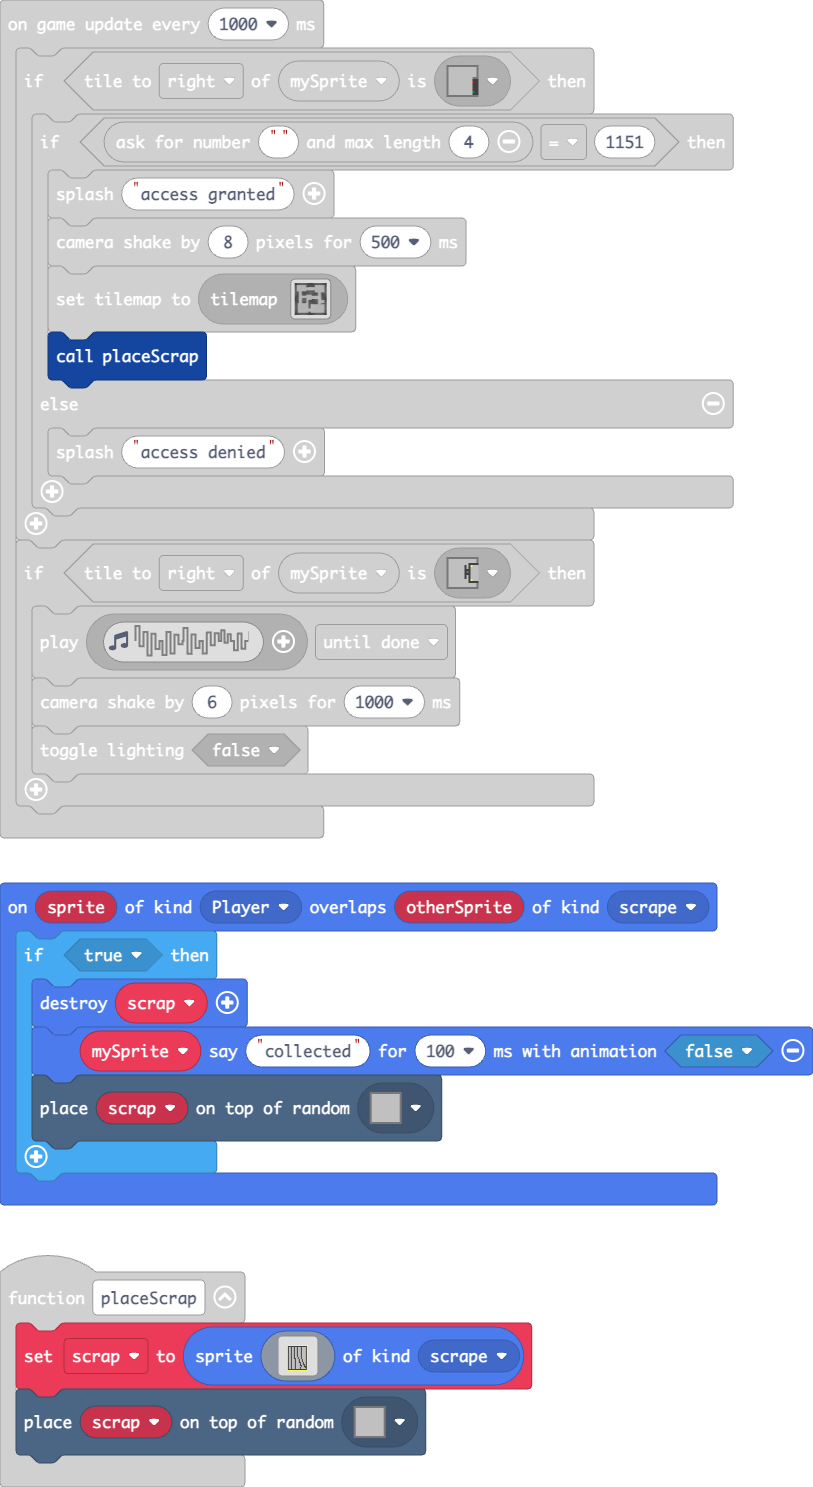
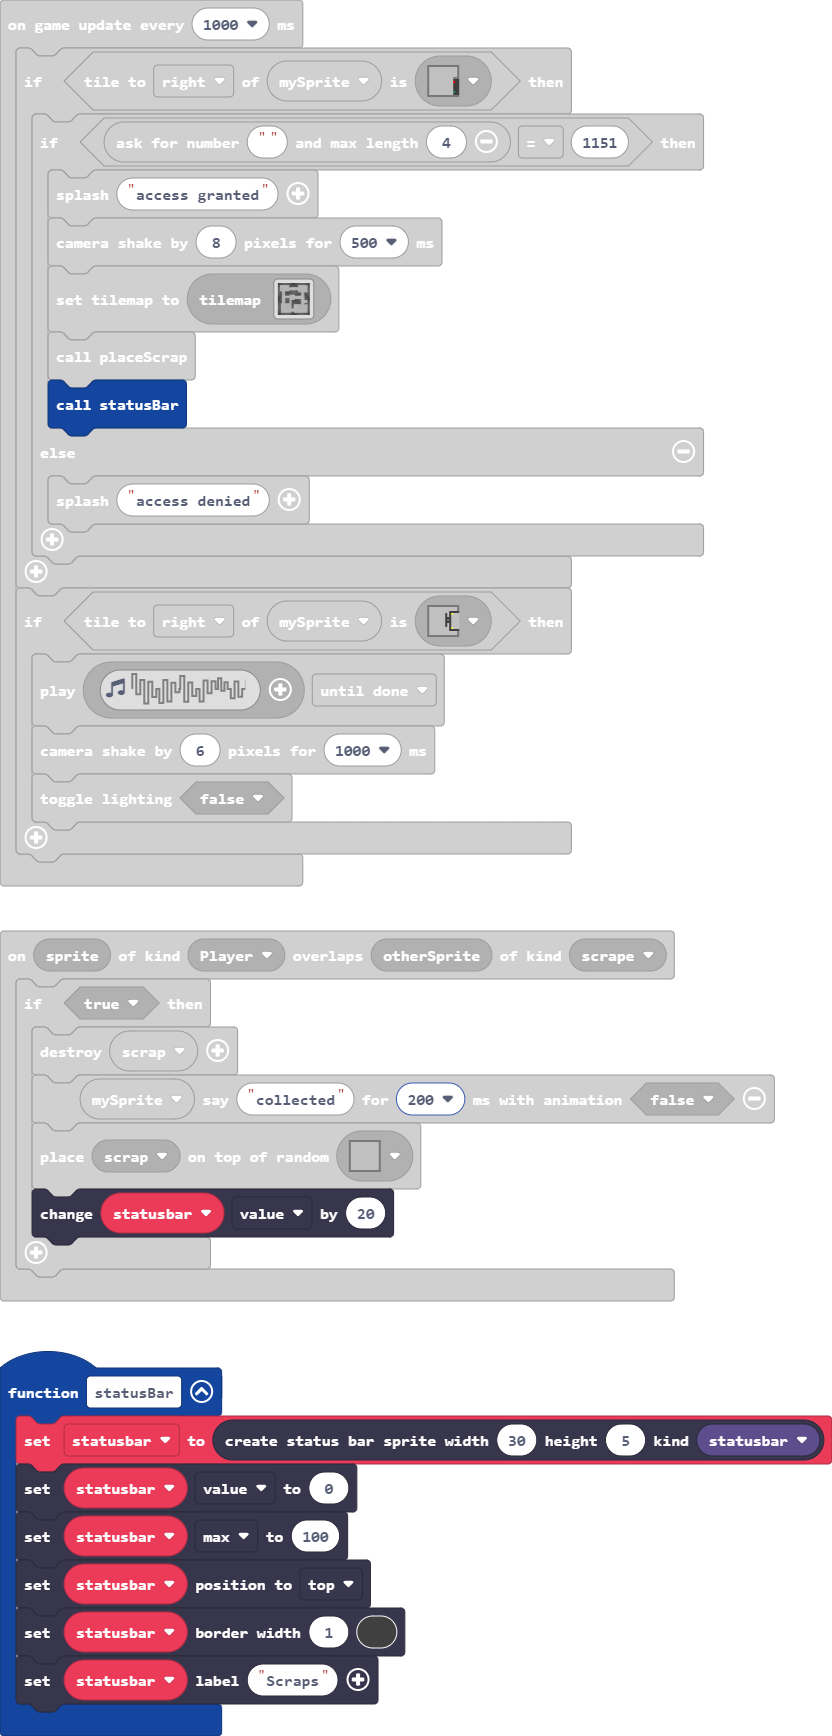
Update pxt.json, main.blocks, main.ts

diff --git a/main.ts b/main.ts
@@ -3,6 +3,17 @@ namespace SpriteKind {
     export const object = SpriteKind.create()
     export const scrape = SpriteKind.create()
 }
+namespace StatusBarKind {
+    export const statusbar = StatusBarKind.create()
+}
+function statusBar () {
+    statusbar = statusbars.create(30, 5, StatusBarKind.statusbar)
+    statusbar.value = 0
+    statusbar.max = 100
+    statusbar.positionDirection(CollisionDirection.Top)
+    statusbar.setBarBorder(1, 15)
+    statusbar.setLabel("Scraps")
+}
 function keyplacer () {
     key = sprites.create(assets.image`myImage`, SpriteKind.Item)
     tiles.placeOnRandomTile(key, assets.tile`Tile0`)
@@ -12,8 +23,9 @@ function keyplacer () {
 sprites.onOverlap(SpriteKind.Player, SpriteKind.scrape, function (sprite, otherSprite) {
     if (true) {
         sprites.destroy(scrap)
-        mySprite.sayText("collected", 100, false)
+        mySprite.sayText("collected", 200, false)
         tiles.placeOnRandomTile(scrap, assets.tile`Tile3`)
+        statusbar.value += 20
     }
 })
 function cutscene () {
@@ -40,6 +52,7 @@ function placeScrap () {
 let spaceship: Sprite = null
 let meteor: Sprite = null
 let scrap: Sprite = null
+let statusbar: StatusBarSprite = null
 let key: Sprite = null
 let mySprite: Sprite = null
 cutscene()
@@ -62,6 +75,7 @@ game.onUpdateInterval(1000, function () {
             scene.cameraShake(8, 500)
             tiles.setCurrentTilemap(tilemap`lemap`)
             placeScrap()
+            statusBar()
         } else {
             game.splash("access denied")
         }
